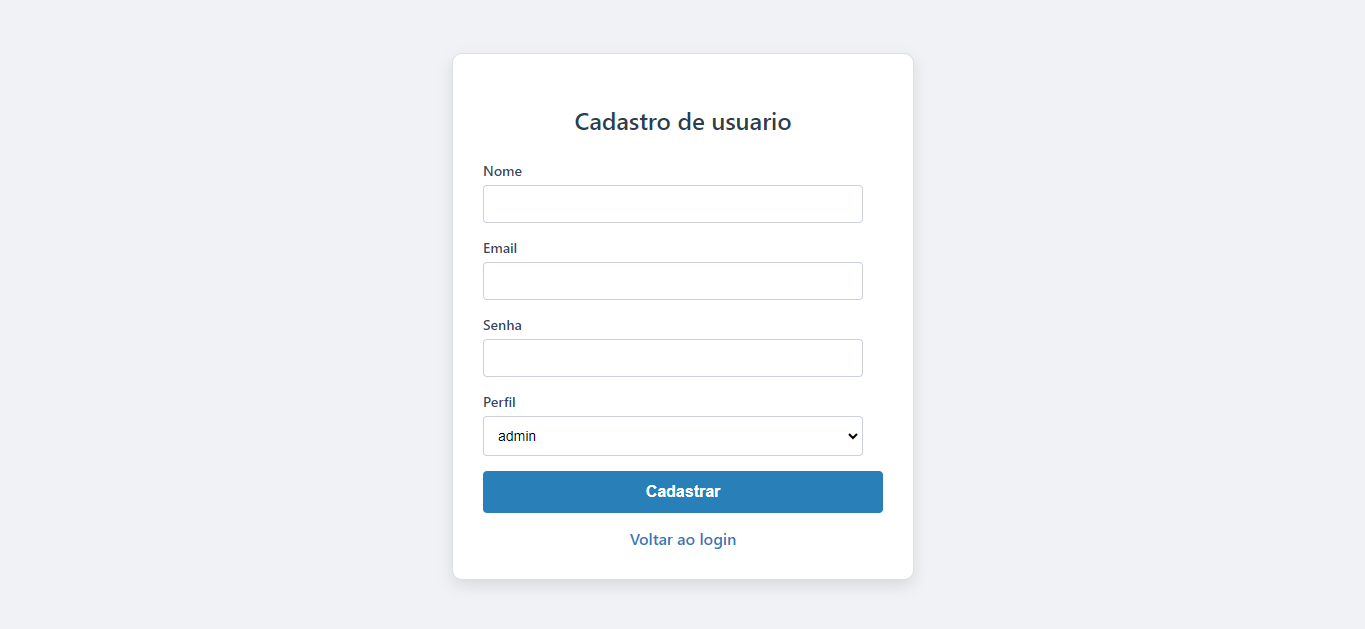
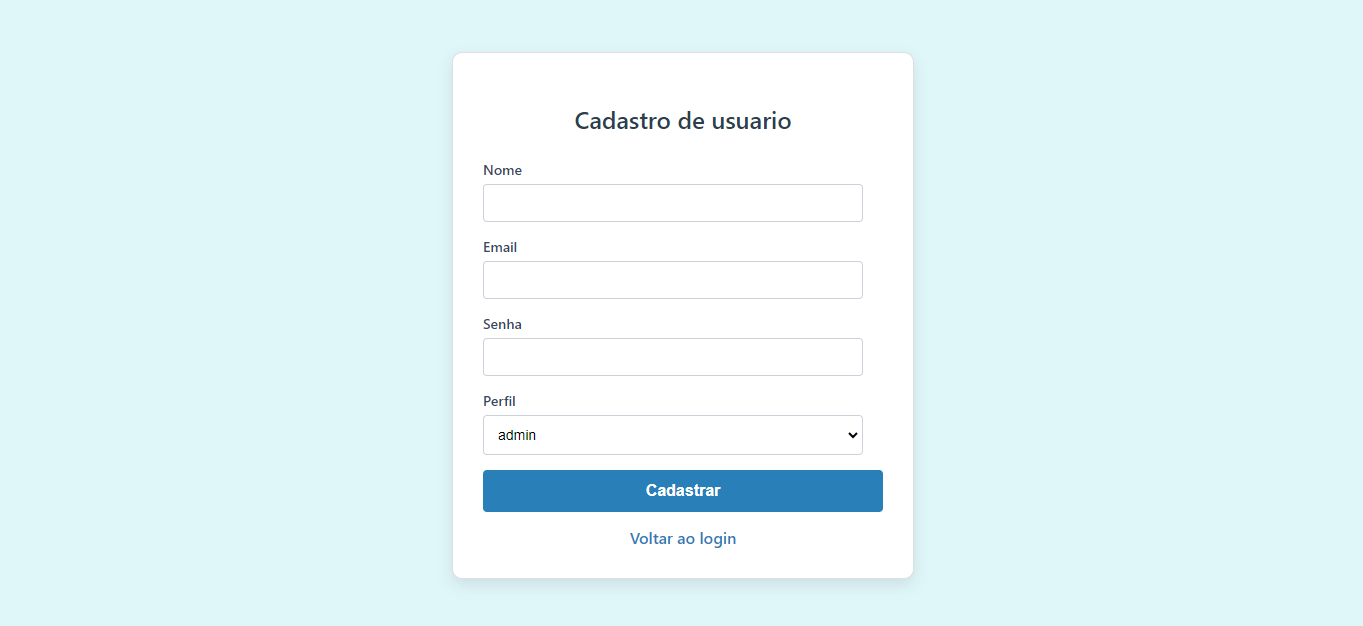
correção de cor no perfil

diff --git a/views/dashboard.php b/views/dashboard.php
@@ -9,7 +9,7 @@
     <style>
         body {
             font-family: 'Segoe UI', Tahoma, Geneva, Verdana, sans-serif;
-            background-color: #f4f4f9;
+            background-color: #e0f7fa;
             margin: 0;
             padding: 0;
             color: #333;
@@ -64,11 +64,11 @@
         }
 
         .gestor {
-            background-color: #e8f5e9;
+            background-color: #e0f7fa;
         }
 
         .colaborador {
-            background-color: #f9fbe7;
+            background-color: #e0f7fa;
         }
 
         /* Responsivo */
@@ -95,6 +95,7 @@
 
 <body class="<?= $_SESSION['perfil'] ?>">
     <!-- Define a classe com base no perfil -->
+    <br><br> <br><br> <br><br>
     <div class="container">
         <h1>Bem-vindo,
             <?= $_SESSION['perfil'] ?>

diff --git a/views/login.php b/views/login.php
@@ -8,7 +8,7 @@
 <style>
 body {
     font-family: 'Segoe UI', Tahoma, Geneva, Verdana, sans-serif;
-    background-color: #f0f2f5;
+    background-color: #e0f7fa;
     display: flex;
     justify-content: center;
     align-items: center;

diff --git a/views/register.php b/views/register.php
@@ -8,7 +8,7 @@
 <style>
 body {
     font-family: 'Segoe UI', Tahoma, Geneva, Verdana, sans-serif;
-    background-color: #f0f2f5;
+    background-color: #e0f7fa;
     display: flex;
     justify-content: center;
     align-items: center;
